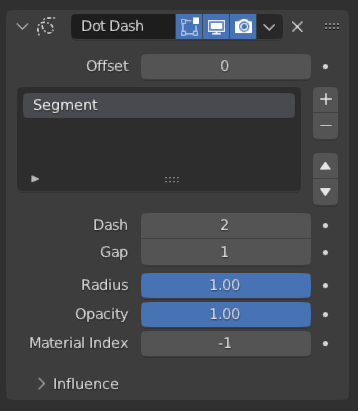
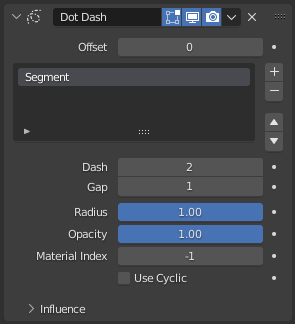
GPencil: doc updates
git-svn-id: https://svn.blender.org/svnroot/bf-manual/trunk/blender_docs@9154 c4de1f47-6596-e411-a384-0024e86c2797

diff --git a/manual/grease_pencil/modifiers/generate/envelope.rst b/manual/grease_pencil/modifiers/generate/envelope.rst
@@ -1,0 +1,40 @@
+.. index:: Grease Pencil Modifiers; Envelope Modifier
+.. _bpy.types.EnvelopeGpencilModifier:
+
+******************
+Envelope Modifier
+******************
+
+The *Envelope* modifier creates a shape known as envelope over the existing strokes connecting all the points that have n points between them.
+
+
+Options
+=======
+
+.. figure:: /images/grease-pencil_modifiers_generate_envelope_panel.png
+   :align: right
+
+   The Envelope modifier.
+
+Mode
+   :Deform: Replaces the original stroke with the envelope shape.
+   :Segments: Add segments to create the envelope shape keeping the original stroke.
+   :Fill: Add segments to create the envelope without the original stroke.
+
+Spread Length
+   The number of points to skip when creating the straight segments that define the envelope.
+
+Thickness
+   The thickness of the generated stroke segments.
+
+Strength
+   The Opacity of the generated stroke segments.
+
+Material Index
+   Defines the material to use on the generated stroke segments.
+
+
+Influence Filters
+-----------------
+
+See :ref:`grease-pencil-modifier-influence-filters`.

diff --git a/manual/grease_pencil/modifiers/deform/smooth.rst b/manual/grease_pencil/modifiers/deform/smooth.rst
@@ -37,6 +37,9 @@ Repeat
    The number of smoothing iterations, equivalent to executing the Smooth tool multiple times.
    High values can reduce the animation performance (FPS).
 
+Keep shape
+   When enabled, the smoothing algorithm will try to maintain as close as possible the overall shape of the original stroke.
+
 
 Influence
 ---------

diff --git a/manual/grease_pencil/modifiers/generate/dash.rst b/manual/grease_pencil/modifiers/generate/dash.rst
@@ -34,6 +34,8 @@ Opacity
    The factor to apply to the original point's opacity for the new points.
 Material Index
    Use this index on generated segment, use -1 for existing material.
+Use Cyclic
+   Close the segment.
 
 
 Influence Filters

diff --git a/manual/grease_pencil/modifiers/generate/index.rst b/manual/grease_pencil/modifiers/generate/index.rst
@@ -9,6 +9,7 @@
    array.rst
    build.rst
    dash.rst
+   envelope.rst
    length.rst
    line_art.rst
    mirror.rst
